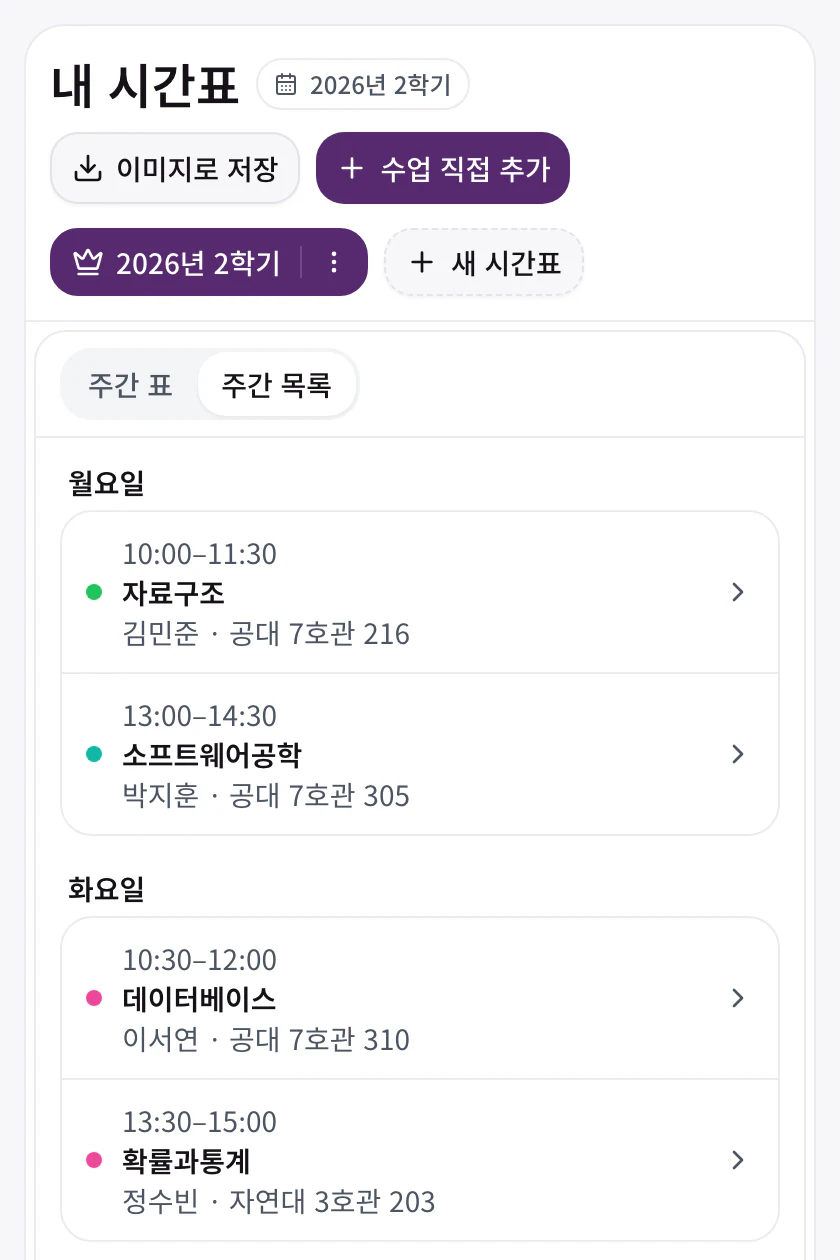
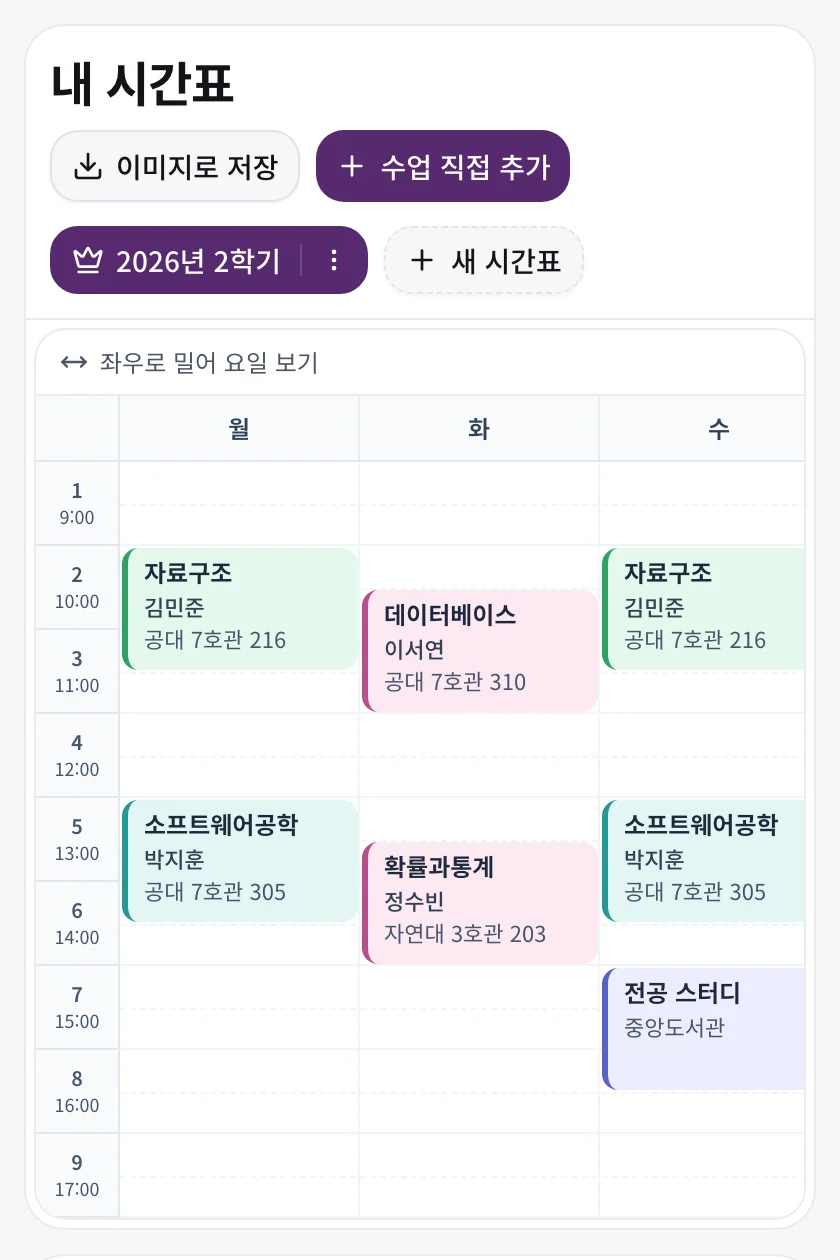
refactor(timetable): 주간 목록과 중복 시간표 이름 제거

diff --git a/apps/web/src/features/timetable/components/timetable-grid.tsx b/apps/web/src/features/timetable/components/timetable-grid.tsx
@@ -8,21 +8,16 @@ import { cn } from '@/shared/lib/utils';
 import { getRenderingBlocks, getTimeInMinutes, WEEK_DAYS, type RenderingBlock } from '@/features/timetable/lib/timetable';
 import { CourseDetailDialog } from '@/features/course/components/course-detail-dialog';
 import { CustomScheduleDetailDialog } from './custom-schedule-detail-dialog';
-import { TimetableAgenda } from './timetable-agenda';
 import { TimetableBlock, type OpenTimetableBlock } from './timetable-block';
 
 interface TimetableGridProps {
   timetable: TimetableResponse;
   className?: string;
   isPreview?: boolean;
-  showViewControls?: boolean;
+  allowHorizontalScroll?: boolean;
 }
 
 const MONDAY_TO_SATURDAY = WEEK_DAYS.slice(0, 6);
-const TIMETABLE_VIEWS = [
-  { value: 'grid', label: '주간 표' },
-  { value: 'agenda', label: '주간 목록' },
-] as const;
 interface BlockLayout {
   leftOffset: number;
   widthFraction: number;
@@ -103,16 +98,14 @@ function buildLayoutsForDay(dayBlocks: RenderingBlock[]): Map<string, BlockLayou
   return layouts;
 }
 
-export function TimetableGrid({ timetable, className, isPreview = false, showViewControls = false }: TimetableGridProps) {
+export function TimetableGrid({ timetable, className, isPreview = false, allowHorizontalScroll = false }: TimetableGridProps) {
   const blocks = useMemo(() => getRenderingBlocks(timetable), [timetable]);
   const displayDays = blocks.some((block) => block.dayOfWeek === '일') ? WEEK_DAYS : MONDAY_TO_SATURDAY;
-  const [view, setView] = useState<(typeof TIMETABLE_VIEWS)[number]['value']>('grid');
   const [selectedBlock, setSelectedBlock] = useState<RenderingBlock | null>(null);
   const [detailOpen, setDetailOpen] = useState(false);
   const returnFocusRef = useRef<HTMLButtonElement>(null);
   const scrollHintId = useId();
-  const isAgendaVisible = showViewControls && view === 'agenda';
-  const hasWideColumns = showViewControls && !isPreview;
+  const hasWideColumns = allowHorizontalScroll && !isPreview;
 
   const initialCourse = useMemo(() => {
     if (selectedBlock?.type !== 'course') return null;
@@ -183,40 +176,24 @@ export function TimetableGrid({ timetable, className, isPreview = false, showVie
 
   return (
     <div className="@container relative min-w-0">
-      {showViewControls && (
-        <div className="flex flex-wrap items-center justify-between gap-x-4 gap-y-2 border-b border-border px-3 py-2 sm:px-4">
-          <div role="group" aria-label="시간표 보기" className="inline-flex rounded-lg bg-muted p-0.5">
-            {TIMETABLE_VIEWS.map(({ value, label }) => (
-              <button
-                key={value}
-                type="button"
-                aria-pressed={view === value}
-                onClick={() => setView(value)}
-                className="cursor-pointer rounded-md px-3 py-1.5 text-sm font-medium text-muted-foreground hover:text-foreground focus-visible:outline-2 focus-visible:outline-ring aria-pressed:bg-card aria-pressed:text-foreground aria-pressed:shadow-xs"
-              >
-                {label}
-              </button>
-            ))}
-          </div>
-          {!isAgendaVisible && (
-            <p id={scrollHintId} className={cn('flex items-center gap-1.5 text-xs text-muted-foreground', displayDays.length === 7 ? '@min-[56rem]:hidden' : '@min-[49rem]:hidden')}>
-              <MoveHorizontal aria-hidden="true" className="size-3.5" />
-              좌우로 밀어 요일 보기
-            </p>
+      {hasWideColumns && (
+        <p
+          id={scrollHintId}
+          className={cn(
+            'flex items-center gap-1.5 border-b border-border px-3 py-2 text-xs text-muted-foreground',
+            displayDays.length === 7 ? '@min-[55.75rem]:hidden' : '@min-[48.25rem]:hidden',
           )}
-        </div>
+        >
+          <MoveHorizontal aria-hidden="true" className="size-3.5" />
+          좌우로 밀어 요일 보기
+        </p>
       )}
-      {isAgendaVisible && <TimetableAgenda dayBlocks={dayBlocksMap} onOpen={handleOpenBlock} />}
       <div
         role="region"
         aria-label="주간 시간표"
-        aria-describedby={showViewControls && !isAgendaVisible ? scrollHintId : undefined}
-        inert={isAgendaVisible}
-        tabIndex={hasWideColumns && !isAgendaVisible ? 0 : undefined}
-        className={cn(
-          'custom-scrollbar w-full overflow-x-auto bg-white focus-visible:outline-2 focus-visible:outline-offset-[-2px] focus-visible:outline-primary',
-          isAgendaVisible && 'pointer-events-none absolute inset-0 overflow-hidden opacity-0',
-        )}
+        aria-describedby={hasWideColumns ? scrollHintId : undefined}
+        tabIndex={hasWideColumns ? 0 : undefined}
+        className="custom-scrollbar w-full overflow-x-auto bg-white focus-visible:outline-2 focus-visible:outline-offset-[-2px] focus-visible:outline-primary"
       >
         <div
           className={cn(

diff --git a/apps/web/src/app/(user)/timetable/timetable-main-section.tsx b/apps/web/src/app/(user)/timetable/timetable-main-section.tsx
@@ -1,9 +1,8 @@
 "use client";
 
 import { motion } from "framer-motion";
-import { CalendarDays, Download, Loader2, Plus } from "lucide-react";
+import { Download, Loader2, Plus } from "lucide-react";
 import { Button } from "@/shared/ui/button";
-import { Badge } from "@/shared/ui/badge";
 import { TimetableGrid } from "@/features/timetable/components/timetable-grid";
 import { TimetableSelect } from "@/features/timetable/components/timetable-select";
 import type { TimetablePageModel } from "./useTimetablePage";
@@ -15,7 +14,6 @@ type TimetableMainSectionProps = Pick<
   | "activeTimetableId"
   | "timetableDetail"
   | "isDetailLoading"
-  | "timetableName"
   | "setSelectedTimetableId"
   | "onCreateTimetable"
   | "onDeleteTimetable"
@@ -32,7 +30,6 @@ export function TimetableMainSection({
   activeTimetableId,
   timetableDetail,
   isDetailLoading,
-  timetableName,
   setSelectedTimetableId,
   onCreateTimetable,
   onDeleteTimetable,
@@ -45,13 +42,7 @@ export function TimetableMainSection({
     <section className="flex min-w-0 flex-1 flex-col overflow-hidden rounded-xl border border-border bg-card">
       <div className="space-y-3 border-b border-border p-3 sm:px-4">
         <div className="flex flex-col gap-2 sm:flex-row sm:items-center sm:justify-between">
-          <div className="flex min-w-0 items-center gap-2">
-            <h1 className="shrink-0 text-2xl font-bold tracking-tight text-foreground sm:text-[28px]">내 시간표</h1>
-            <Badge variant="outline" className="min-w-0 shrink gap-1.5 rounded-full px-2 py-1 text-xs font-medium text-muted-foreground">
-              <CalendarDays className="size-3.5 shrink-0" />
-              <span className="truncate">{timetableName}</span>
-            </Badge>
-          </div>
+          <h1 className="text-2xl font-bold tracking-tight text-foreground sm:text-[28px]">내 시간표</h1>
 
           <div className="flex shrink-0 flex-wrap items-center gap-2">
             <Button
@@ -98,7 +89,7 @@ export function TimetableMainSection({
             transition={{ duration: 0.4 }}
             className="overflow-hidden rounded-lg border border-border bg-card"
           >
-            <TimetableGrid timetable={timetableDetail} className="w-full" showViewControls />
+            <TimetableGrid timetable={timetableDetail} className="w-full" allowHorizontalScroll />
           </motion.div>
         ) : null}
 

diff --git a/apps/web/src/app/(user)/timetable/timetable-page.tsx b/apps/web/src/app/(user)/timetable/timetable-page.tsx
@@ -18,7 +18,6 @@ export function TimetablePage({ model }: { model: TimetablePageModel }) {
     activeTimetableId,
     timetableDetail,
     isDetailLoading,
-    timetableName,
     setSelectedTimetableId,
     onCreateTimetable,
     onDeleteTimetable,
@@ -51,7 +50,6 @@ export function TimetablePage({ model }: { model: TimetablePageModel }) {
           activeTimetableId={activeTimetableId}
           timetableDetail={timetableDetail}
           isDetailLoading={isDetailLoading}
-          timetableName={timetableName}
           setSelectedTimetableId={setSelectedTimetableId}
           onCreateTimetable={onCreateTimetable}
           onDeleteTimetable={onDeleteTimetable}

diff --git a/apps/web/src/widgets/home/home-landing.tsx b/apps/web/src/widgets/home/home-landing.tsx
@@ -32,7 +32,7 @@ const scenes = [
     title: "시간표를 미리 짜 보세요.",
     description: "고른 강의를 담고 겹치는 시간과 총 학점을 확인하세요.",
     image: "timetable",
-    alt: "요일과 시간대별로 강의가 배치된 주간 표. 모바일에서는 강의명과 장소가 표시된 주간 목록",
+    alt: "요일과 시간대별로 강의명과 장소가 표시된 주간 시간표",
     size: [1200, 795],
     mobileSize: [840, 1260],
   },

diff --git a/apps/web/src/app/(user)/timetable/useTimetablePage.ts b/apps/web/src/app/(user)/timetable/useTimetablePage.ts
@@ -284,7 +284,6 @@ export const useTimetablePage = () => {
     activeTimetableId,
     timetableDetail,
     isDetailLoading,
-    timetableName: timetableDetail?.name || "시간표",
     totalCredits,
     todayLabel,
     todaySchedules,
